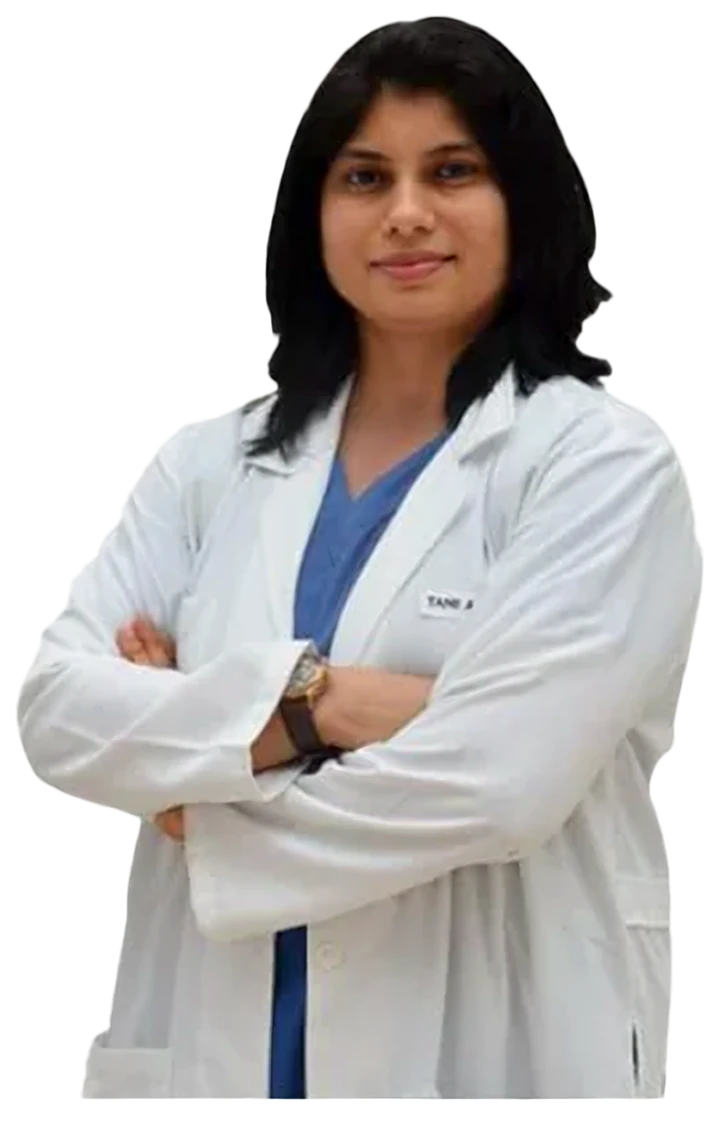
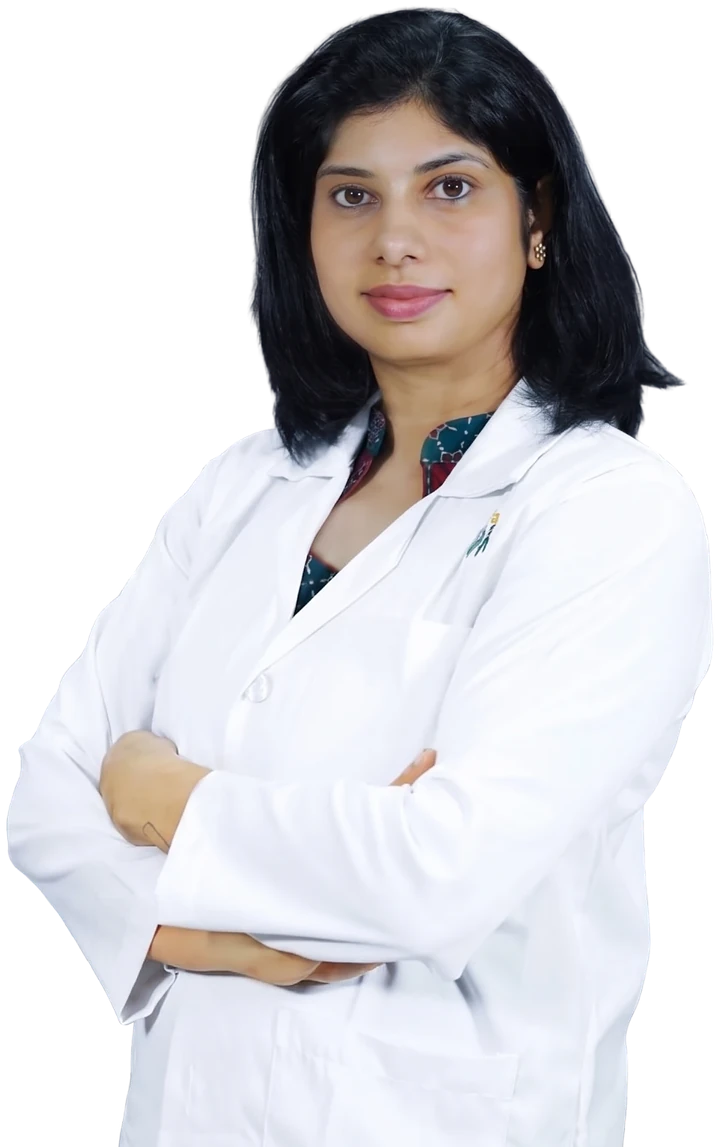
New portrait and rotating hero headline
- Replace hero portrait with the new high-resolution cut-out (1200w/720w)
- Headline: 'Best' and 'in Bangalore' stay fixed while Hematologist /
  Pediatrician / Bone Marrow Transplant Specialist rotate letter by letter,
  with a progress bar; full headline kept for SEO and screen readers,
  shown statically for reduced-motion users; fixed height so nothing shifts
- Smaller headline size
- Clip horizontal overflow from 3D reveal transforms on phones

Claude-Session: https://claude.ai/code/session_013ycr1JF4YBHcdn5DMPYCXy

diff --git a/assets/css/styles.css b/assets/css/styles.css
@@ -65,6 +65,7 @@ body {
   -webkit-font-smoothing: antialiased; overflow-x: hidden;
 }
 img, svg { display: block; max-width: 100%; }
+main { overflow-x: clip; } /* 3D reveal transforms must never cause sideways scrolling */
 a { color: inherit; }
 h1, h2, h3, h4 { font-family: var(--font-head); color: var(--navy); margin: 0; letter-spacing: -.02em; }
 p { margin: 0; }
@@ -191,7 +192,25 @@ button { font: inherit; color: inherit; cursor: pointer; }
 }
 .cells-canvas { position: absolute; inset: 0; width: 100%; height: 100%; pointer-events: none; }
 .hero__grid { position: relative; display: grid; grid-template-columns: 1.12fr .88fr; gap: clamp(32px, 5vw, 72px); align-items: center; }
-.hero__title { font-size: clamp(2.05rem, 3.9vw, 3.4rem); line-height: 1.12; font-weight: 600; letter-spacing: -.025em; margin: 20px 0 22px; max-width: 21ch; }
+.sr-only { position: absolute; width: 1px; height: 1px; padding: 0; margin: -1px; overflow: hidden; clip: rect(0 0 0 0); white-space: nowrap; border: 0; }
+.hero__title { font-size: clamp(1.9rem, 3.3vw, 2.85rem); line-height: 1.15; font-weight: 600; letter-spacing: -.025em; margin: 20px 0 22px; }
+/* "Best" and "in Bangalore" stay; the specialty in between rotates.
+   The block keeps a fixed height (3 lines) so nothing below it moves. */
+.hero__title-vis { display: block; height: calc(3 * 1.15em + 18px); }
+@media (max-width: 359px) { .hero__title-vis { height: auto; min-height: calc(3 * 1.15em + 18px); } }
+.hero__line { display: block; }
+.rotator { color: var(--teal-700); }
+.rotator__word { display: inline; }
+.rotator__char { display: inline-block; transform-origin: 50% 100%; }
+.rotator__bar {
+  position: relative; display: block; margin-top: 14px; height: 4px; width: 88px; border-radius: 4px; overflow: hidden; background: var(--teal-100);
+}
+.rotator__bar::after {
+  content: ""; position: absolute; inset: 0; border-radius: inherit; background: linear-gradient(90deg, var(--teal), var(--red));
+  transform-origin: left; transform: scaleX(0);
+}
+.hero__title.is-timing .rotator__bar::after { animation: rotBar var(--rot-ms, 3000ms) linear forwards; }
+@keyframes rotBar { to { transform: scaleX(1); } }
 .hero__lead { font-size: clamp(1.02rem, 1.25vw, 1.12rem); color: var(--ink-2); max-width: 58ch; }
 .hero__points { display: grid; gap: 12px; margin-top: 26px; }
 .hero__points li { display: flex; align-items: center; gap: 12px; font-size: .96rem; color: var(--ink); font-weight: 500; }
@@ -662,3 +681,7 @@ button { font: inherit; color: inherit; cursor: pointer; }
   *, *::before, *::after { animation-duration: .001ms !important; animation-iteration-count: 1 !important; transition-duration: .001ms !important; transition-delay: 0s !important; }
   .js [data-reveal], .js [data-split] .w__i { opacity: 1 !important; filter: none !important; transform: none !important; clip-path: none !important; }
 }
+
+/* Reduced motion: full headline, no rotation */
+.hero__title.is-static .hero__title-vis { display: none; }
+.hero__title.is-static .sr-only { position: static; width: auto; height: auto; margin: 0; overflow: visible; clip: auto; white-space: normal; }

diff --git a/assets/js/main.js b/assets/js/main.js
@@ -359,6 +359,47 @@ const CONFIG = {
 
   $$('.cells-canvas').forEach((cv) => new CellField(cv, { dark: cv.classList.contains('cells-canvas--dark') }));
 
+  /* ---------- Hero headline rotator ---------- */
+  const rot = $('[data-rotator]');
+  if (rot && !reduceMotion) {
+    const words = rot.dataset.words.split('|');
+    const el = $('.rotator__word', rot);
+    const HOLD = 2600;
+    let i = 0;
+    const title = rot.closest('h1');
+    title.style.setProperty('--rot-ms', `${HOLD}ms`);
+    // one span per letter; spaces stay real spaces so long phrases can wrap
+    const chars = (w) => w.split(' ').map((word) => `<span style="display:inline-block;white-space:nowrap">${
+      word.split('').map((ch) => `<span class="rotator__char">${ch}</span>`).join('')}</span>`).join(' ');
+    const animateChars = (dir) => {
+      const cs = $$('.rotator__char', el);
+      return Promise.all(cs.map((c, k) => c.animate(
+        dir === 'in'
+          ? [{ opacity: 0, filter: 'blur(8px)', transform: 'rotateX(-80deg) translateY(.2em)' }, { opacity: 1, filter: 'blur(0)', transform: 'none' }]
+          : [{ opacity: 1, filter: 'blur(0)', transform: 'none' }, { opacity: 0, filter: 'blur(8px)', transform: 'rotateX(80deg) translateY(-.2em)' }],
+        { duration: dir === 'in' ? 520 : 360, delay: k * (dir === 'in' ? 28 : 14), easing: 'cubic-bezier(.22,.8,.24,1)', fill: 'both' }
+      ).finished));
+    };
+    let paused = false;
+    const cycle = async () => {
+      title.classList.remove('is-timing'); void title.offsetWidth; title.classList.add('is-timing');
+      await new Promise((r) => setTimeout(r, HOLD));
+      while (paused || document.hidden) await new Promise((r) => setTimeout(r, 300));
+      await animateChars('out');
+      i = (i + 1) % words.length;
+      el.innerHTML = chars(words[i]);
+      await animateChars('in');
+      cycle();
+    };
+    el.innerHTML = chars(words[0]);
+    title.addEventListener('pointerenter', () => { paused = true; });
+    title.addEventListener('pointerleave', () => { paused = false; });
+    setTimeout(cycle, 900);
+  } else if (rot) {
+    // Reduced motion: show the full headline instead of rotating it
+    rot.closest('h1').classList.add('is-static');
+  }
+
   /* ---------- Treatments filter ---------- */
   const filter = $('.treat-filter');
   const groups = $('[data-treatments]');

diff --git a/index.html b/index.html
@@ -86,8 +86,12 @@
       <div class="container hero__grid">
         <div class="hero__copy">
           <p class="eyebrow" data-reveal="blur"><span class="eyebrow__dot" aria-hidden="true"></span>Hematology · Pediatric Oncology · Bone Marrow Transplant</p>
-          <h1 id="hero-title" class="hero__title" data-split>
-            Best Hematologist, Pediatrician and Bone Marrow Transplant Specialist in Bangalore
+          <h1 id="hero-title" class="hero__title" data-reveal="blur" style="--d:.1s">
+            <span class="sr-only">Best Hematologist, Pediatrician and Bone Marrow Transplant Specialist in Bangalore</span>
+            <span class="hero__title-vis" aria-hidden="true">
+              <span class="hero__line">Best <span class="rotator" data-rotator data-words="Hematologist|Pediatrician|Bone Marrow Transplant Specialist"><span class="rotator__word">Hematologist</span></span> in&nbsp;Bangalore</span>
+              <span class="rotator__bar"></span>
+            </span>
           </h1>
           <p class="hero__lead" data-reveal="blur" style="--d:.35s">
             Dr. Neema Bhat is a US-trained Haemato-Oncologist with more than ten years of experience treating blood disorders and blood cancers in children and adults. She is Program Director and Head of the Bone Marrow Transplant Unit at Bhagawan Mahaveer Jain Hospital, Bangalore.
@@ -125,7 +129,7 @@
                    srcset="assets/images/dr-neema-bhat-720.webp 720w, assets/images/dr-neema-bhat.webp 1200w"
                    sizes="(max-width: 960px) 80vw, 460px"
                    alt="Dr. Neema Bhat, Hematologist and Pediatric Oncologist in Bangalore, in a white coat with arms folded, smiling"
-                   width="1200" height="1893" fetchpriority="high" decoding="async">
+                   width="1200" height="1911" fetchpriority="high" decoding="async">
               <span class="hv__chip hv__chip--a" aria-hidden="true"><i></i>Hematology</span>
               <span class="hv__chip hv__chip--b" aria-hidden="true"><i></i>Pediatric Oncology</span>
               <span class="hv__chip hv__chip--c" aria-hidden="true"><i></i>Bone Marrow Transplant</span>
